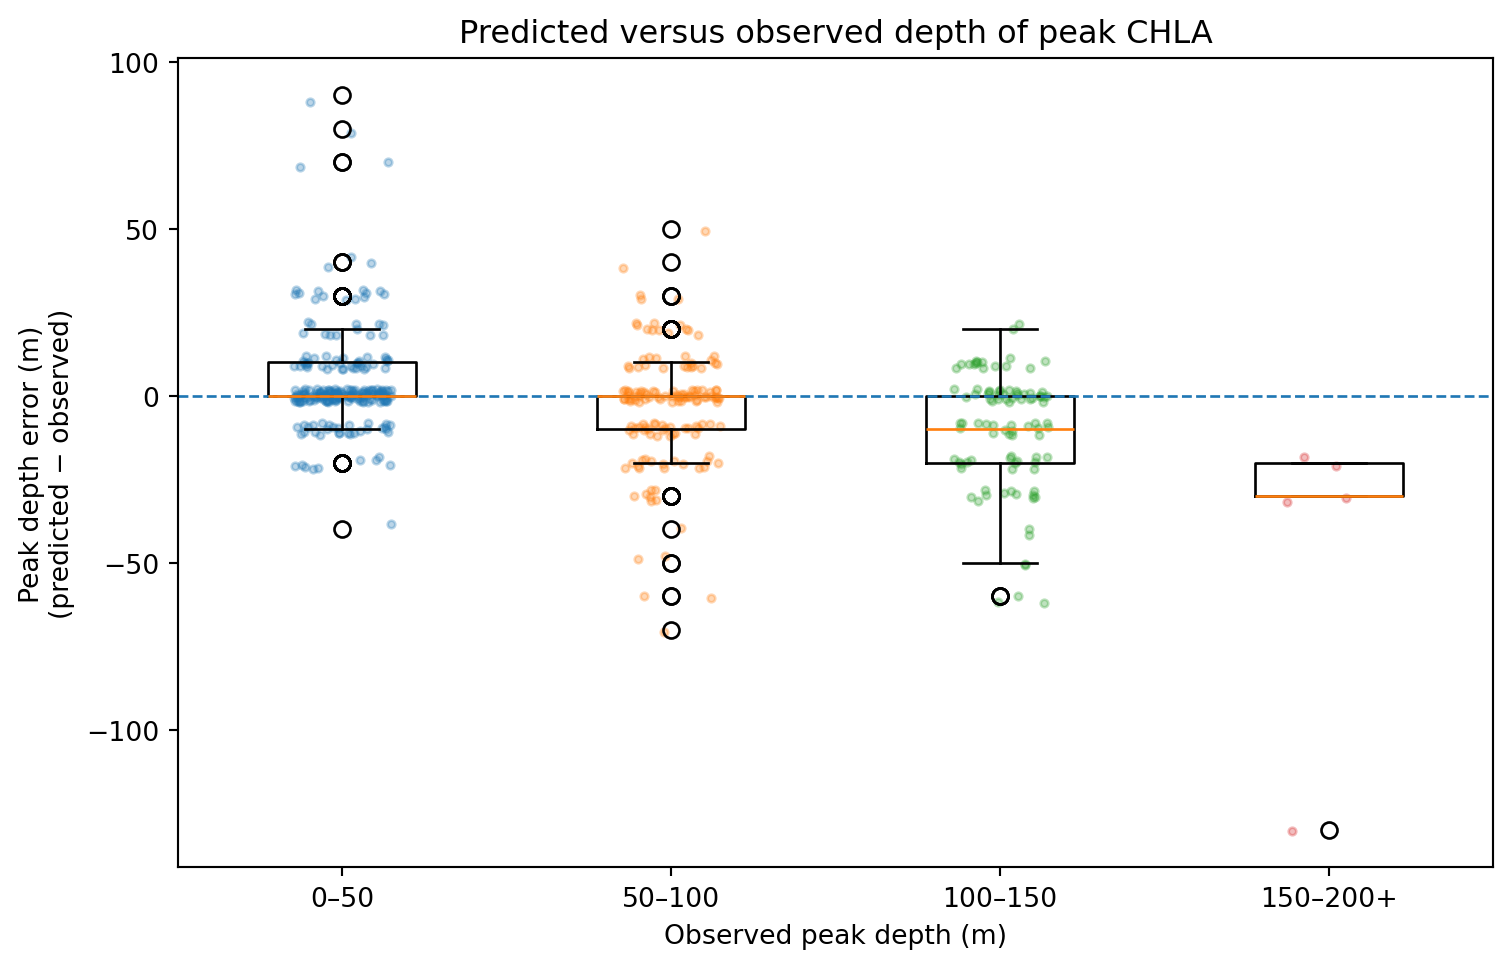
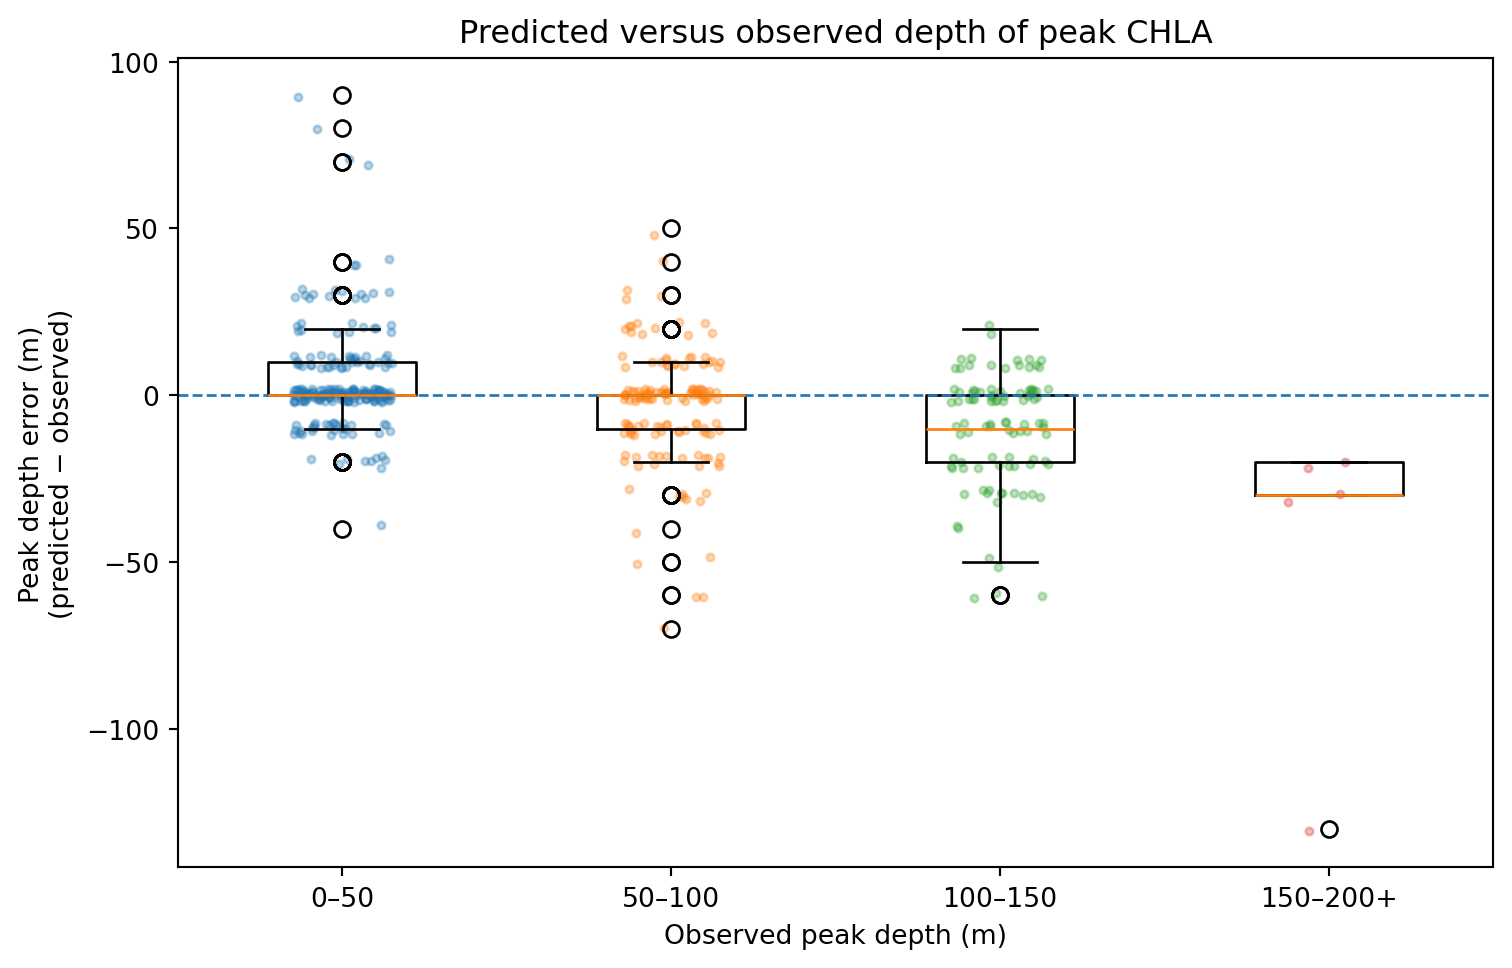
fix some headings

diff --git a/docs/text_and_talks/chla_depth_talk_2.html b/docs/text_and_talks/chla_depth_talk_2.html
@@ -268,17 +268,17 @@ Eli Holmes
 <section id="depth-profiles-estimated-from-pace-rrs" class="title-slide slide level1 center">
 <h1>Depth profiles estimated from PACE Rrs</h1>
 <p>In this talk, I will introduce you to an experimental product of CHLA(z), depth profiles, developed using PACE remote-sensing reflectance (Rrs) data. You can access the cloud-optimized dataset as follows. zarr version 3+ required. Use <code>zarr.__version__</code> to see what you have.</p>
-<div id="4891964b" class="cell" data-execution_count="2">
+<div id="1dd5a26c" class="cell" data-execution_count="2">
 <div class="sourceCode cell-code" id="cb1"><pre class="sourceCode numberSource python number-lines code-with-copy"><code class="sourceCode python"><span id="cb1-1"><a href=""></a><span class="im">import</span> xarray <span class="im">as</span> xr</span>
 <span id="cb1-2"><a href=""></a>zarr_path <span class="op">=</span> <span class="st">"gcs://nmfs_odp_nwfsc/CB/fish-pace-datasets/chla-z/zarr"</span></span>
 <span id="cb1-3"><a href=""></a>ds <span class="op">=</span> xr.open_zarr(zarr_path, consolidated<span class="op">=</span><span class="va">False</span>, storage_options<span class="op">=</span>{<span class="st">"token"</span>: <span class="st">"anon"</span>})</span></code><button title="Copy to Clipboard" class="code-copy-button"><i class="bi"></i></button></pre></div>
 </div>
 </section>
 
-<section id="example" class="title-slide slide level1 center">
-<h1>Example</h1>
-<p>Depth of peak CHLA on March 5, 2024. Red box is where we will make a time series.</p>
-<div id="cf845836" class="cell" data-execution_count="3">
+<section id="example-depth-of-peak-chla" class="title-slide slide level1 center">
+<h1>Example: Depth of peak CHLA</h1>
+<p>March 5, 2024. Red box is where we will make a time series.</p>
+<div id="77002fda" class="cell" data-execution_count="3">
 <div class="cell-output cell-output-display">
 <div class="quarto-figure quarto-figure-center">
 <figure>
@@ -289,9 +289,9 @@ Eli Holmes
 </div>
 </section>
 
-<section id="seasonal-patterns-of-chla-peak-depth" class="title-slide slide level1 center">
-<h1>Seasonal patterns of CHLA peak depth</h1>
-<div id="56e012b5" class="cell" data-execution_count="4">
+<section id="example-seasonal-pattern-of-peak" class="title-slide slide level1 center">
+<h1>Example: Seasonal pattern of peak</h1>
+<div id="1a4cfd77" class="cell" data-execution_count="4">
 <div class="cell-output cell-output-display">
 <div class="quarto-figure quarto-figure-center">
 <figure>
@@ -316,7 +316,7 @@ Eli Holmes
 <section id="pace-mission-hyperspectral-ocean-color" class="title-slide slide level1 center">
 <h1>PACE Mission: Hyperspectral Ocean Color</h1>
 <p>PACE provides hyperspectral water-leaving radiance reflectances, Rrs(λ), across the visible spectrum.</p>
-<div id="8ce9d195" class="cell" data-fig-height="4" data-fig-width="8" data-execution_count="5">
+<div id="38298d43" class="cell" data-fig-height="4" data-fig-width="8" data-execution_count="5">
 <div class="cell-output cell-output-display">
 <div class="quarto-figure quarto-figure-center">
 <figure>
@@ -367,7 +367,7 @@ Eli Holmes
 <li>Global</li>
 <li><strong>Deep Water</strong> (&gt;1000m) not coastal</li>
 </ul>
-<div id="02ea5ea7" class="cell" data-execution_count="6">
+<div id="5376b9b2" class="cell" data-execution_count="6">
 <div class="cell-output cell-output-display">
 <div class="quarto-figure quarto-figure-center">
 <figure>
@@ -380,7 +380,7 @@ Eli Holmes
 
 <section id="a-chlorophyll-profile-from-an-bgc-argo-buoy" class="title-slide slide level1 center">
 <h1>A Chlorophyll Profile from an BGC-Argo Buoy</h1>
-<div id="923abacd" class="cell" data-execution_count="7">
+<div id="9bd4e1c7" class="cell" data-execution_count="7">
 <div class="cell-output cell-output-display">
 <div class="quarto-figure quarto-figure-center">
 <figure>
@@ -400,7 +400,7 @@ Eli Holmes
 </li>
 <li>Key for shallow structure, seasonal cycles, and diel variability</li>
 </ul>
-<div id="1c936d2e" class="cell" data-execution_count="8">
+<div id="fd651bdc" class="cell" data-execution_count="8">
 <div class="cell-output cell-output-display">
 <div class="quarto-figure quarto-figure-center">
 <figure>
@@ -509,7 +509,7 @@ Eli Holmes
 <section id="performance" class="title-slide slide level1 center">
 <h1>Performance</h1>
 <p>Overall we see a close match between our predictions and our test data for CHLA in the upper 10m — for non-coastal data.</p>
-<div id="5d5b8352" class="cell" data-execution_count="13">
+<div id="4e7b21ae" class="cell" data-execution_count="13">
 <div class="cell-output cell-output-display">
 <div class="quarto-figure quarto-figure-center">
 <figure>
@@ -524,7 +524,7 @@ Eli Holmes
 <section id="prediction-of-chla-0-to-10m" class="title-slide slide level1 center">
 <h1>Prediction of CHLA 0 to 10m</h1>
 <p>Using PACE data for hyperspectral Rrs, we can make a prediction of surface CHLA. Let’s compare to PACE’s surface CHLA product as a first pass check, but note that these are different products trained on different in-situ data. Note surface CHLA is not our goal.</p>
-<div id="96ec320d" class="cell" data-execution_count="17">
+<div id="d0cf3bbb" class="cell" data-execution_count="17">
 <div class="cell-output cell-output-display">
 <div class="quarto-figure quarto-figure-center">
 <figure>
@@ -539,7 +539,7 @@ Eli Holmes
 <h2>Scatter plot</h2>
 <p>PACE chlor_a to BRT with type = 1 (ooi) and solar_hour = 0 (midnight)</p>
 <p>Notice that at high PACE <code>chlor_a</code>, the BRT model predicts lower <code>CHLA_0_10</code>. We might be able to correct this by using the whole CHLA depth profile (next section).</p>
-<div id="71d30640" class="cell" data-execution_count="18">
+<div id="1e5d80fd" class="cell" data-execution_count="18">
 <div class="cell-output cell-output-display">
 <div class="quarto-figure quarto-figure-center">
 <figure>
@@ -567,7 +567,7 @@ Eli Holmes
 
 <section id="chla-profiles-observed-vs-brt" class="title-slide slide level1 nostretch center">
 <h1>CHLA Profiles: Observed vs BRT</h1>
-<div id="554f6365" class="cell" data-fig-height="4.5" data-fig-width="8" data-execution_count="19">
+<div id="9304872e" class="cell" data-fig-height="4.5" data-fig-width="8" data-execution_count="19">
 <div class="cell-output cell-output-display">
 <div class="quarto-figure quarto-figure-center">
 <figure>
@@ -580,7 +580,7 @@ Eli Holmes
 
 <section id="when-surface-chla-is-high" class="title-slide slide level1 nostretch center">
 <h1>When surface CHLA is high?</h1>
-<div id="33681ecb" class="cell" data-execution_count="20">
+<div id="07847691" class="cell" data-execution_count="20">
 <div class="cell-output cell-output-display">
 <div class="quarto-figure quarto-figure-center">
 <figure>
@@ -593,8 +593,8 @@ Eli Holmes
 
 <section id="coastal-waters" class="title-slide slide level1 nostretch center">
 <h1>Coastal waters?</h1>
-<p>Not enough data yet. No correction was done for bathymetry (scattering off bottom), so that will need to be fixed for shallow water.</p>
-<div id="2a0e0c65" class="cell" data-execution_count="21">
+<p>Not enough data yet. Need to correct for bathymetry.</p>
+<div id="393eca61" class="cell" data-execution_count="21">
 <div class="cell-output cell-output-display">
 <div class="quarto-figure quarto-figure-center">
 <figure>
@@ -607,7 +607,7 @@ Eli Holmes
 
 <section id="absolute-errors-for-depth-bins" class="title-slide slide level1 center">
 <h1>Absolute Errors for Depth Bins</h1>
-<div id="03fe59a5" class="cell" data-execution_count="22">
+<div id="1beccfcc" class="cell" data-execution_count="22">
 <div class="cell-output cell-output-display">
 <div class="quarto-figure quarto-figure-center">
 <figure>
@@ -620,7 +620,7 @@ Eli Holmes
 
 <section id="proportional-errors-for-depth-bins" class="title-slide slide level1 center">
 <h1>Proportional Errors for Depth Bins</h1>
-<div id="eb9b18a7" class="cell" data-execution_count="23">
+<div id="f5191eee" class="cell" data-execution_count="23">
 <div class="cell-output cell-output-display">
 <div class="quarto-figure quarto-figure-center">
 <figure>
@@ -633,7 +633,7 @@ Eli Holmes
 
 <section id="observed-and-predicted-peak-depth" class="title-slide slide level1 center">
 <h1>Observed and Predicted Peak Depth</h1>
-<div id="77840eb9" class="cell" data-execution_count="25">
+<div id="fdfc1334" class="cell" data-execution_count="25">
 <div class="cell-output cell-output-display">
 <div class="quarto-figure quarto-figure-center">
 <figure>
@@ -646,7 +646,7 @@ Eli Holmes
 
 <section id="integrated-chla-0200-m" class="title-slide slide level1 center">
 <h1>Integrated CHLA (0–200 m)</h1>
-<div id="2147d31e" class="cell" data-execution_count="26">
+<div id="d9002869" class="cell" data-execution_count="26">
 <div class="cell-output cell-output-display">
 <div class="quarto-figure quarto-figure-center">
 <figure>
